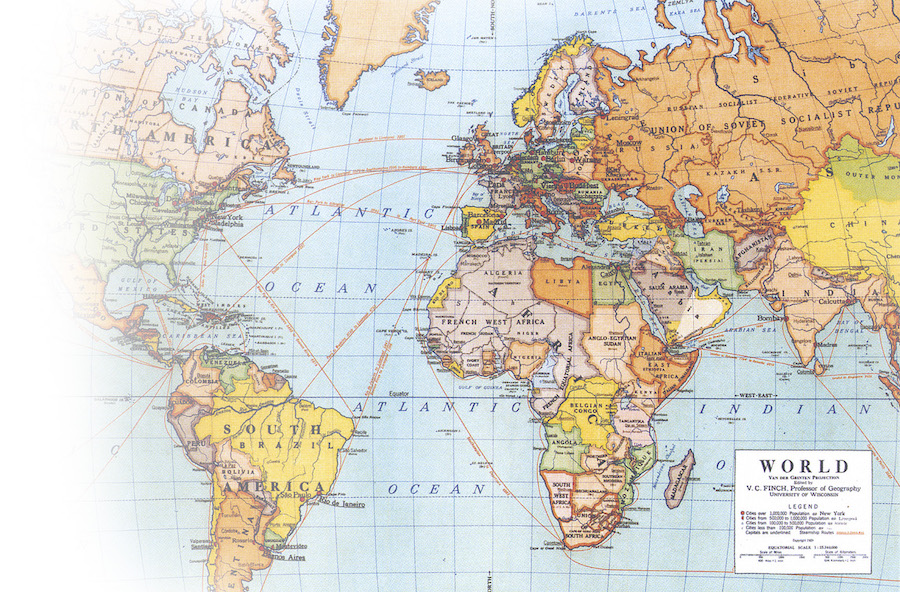
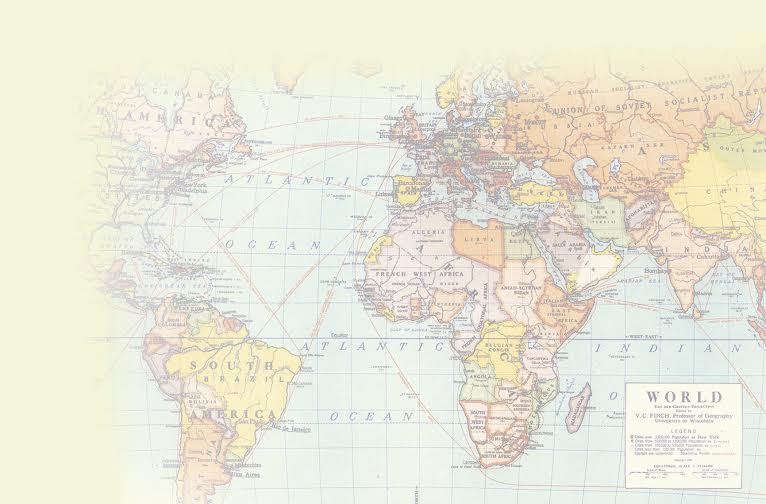
Update landing page background

diff --git a/index.html b/index.html
@@ -6,17 +6,16 @@
 </head>
 <body>
    <div id="top">
-   		<!-- <a href="https://www.facebook.com/eran.chazan"><img src="images/facebook_icon.png"></a> -->
-   		<div class='cicular'></div>
-   		<!-- <h2>Eran Chazan</h2> -->
- 		<a href= "https://github.com/eranchazan"><img src="images/git_icon.png"></a>
- 		<a href= "https://www.twitter.com/eranchazan"><img src=	"images/twitter_icon.jpg"></a>
- 		<a href="https://www.linkedin.com/in/eranchazan"><img src="images/linkedin_icon.png"></a>
+   		<a href="https://www.facebook.com/eran.chazan"><img src="images/facebook.svg"></a>
+ 		<a href= "https://github.com/eranchazan"><img src="images/"></a>
+ 		<a href= "https://www.twitter.com/eranchazan"><img src=	"images/"></a>
+ 		<a href="https://www.linkedin.com/in/eranchazan"><img src="images/"></a>
+ 		<h2>Eran Chazan</h2>
    </div>
 	<div id="bottom">
-		<a class='link' href="about.html">About</a>
-		<a class='link' href="contact.html">Contact</a>
-		<a class='link' href="projects.html">Projects</a>
+		<a class='about' href="about.html">About</a>
+		<a class='about' href="contact.html">Contact</a>
+		<a class='about' href="projects.html">Projects</a>
 	</div>
 </body>
 </html>

diff --git a/styles/index.css b/styles/index.css
@@ -2,41 +2,42 @@
 		position: fixed;
 		left: 0;
 		right: 0;
-		height: 90%;
+		height: 89%;
 	}
 	
 	#top {
 		top: 0;
-		background-color: white;
-		position: fixed;
-		left: 0;
-		right: 0
-	}
+		background-color: beige;
+		}
 	
 	#bottom {
 		bottom: 0;
 		background: url(../images/world.jpg) no-repeat fixed; 
 		background-size: cover;
 	}
-
-h2 {
-	font-style: serif;
-	font-size: 24px;
-	display: block;
-	margin-left: 10px;
-	margin-right: auto;
-}
-
 a {
-   position: block;
+   position: inline;
    font-size: 16px;
    font-style: serif; 
    float: right;
+   padding-top: 0.5em;
    padding-right: 0.5em;
- }
+    }
 
-  a.link {
- 	color: black;
+h2 {
+	font-family: serif;
+	font-style: italic;
+	font-size: 32px;
+	position: inline;
+	margin-left: 100px;
+	width: 300px;
+}
+
+
+
+  a.about {
+  	/*text-shadow:;*/
+ 	color: black; 
     text-decoration: none;
  	font-family: serif;
  	font-style: italic;
@@ -44,9 +45,9 @@ a {
  	font-weight: bold;
  	float:left;
  	clear: left;
- 	margin-top: 0.7em;
- 	margin-left: 15px;
- 	opacity: 0.6;
+ 	margin-top: 1em;
+ 	margin-left: 50px;
+ 	opacity: 0.8;
 
  }
 

diff --git a/styles/neighborhoods.css b/styles/neighborhoods.css
@@ -1,5 +1,5 @@
 body {
-	background-color: white;
+	background-color: beige;
 }
 
 #title {
